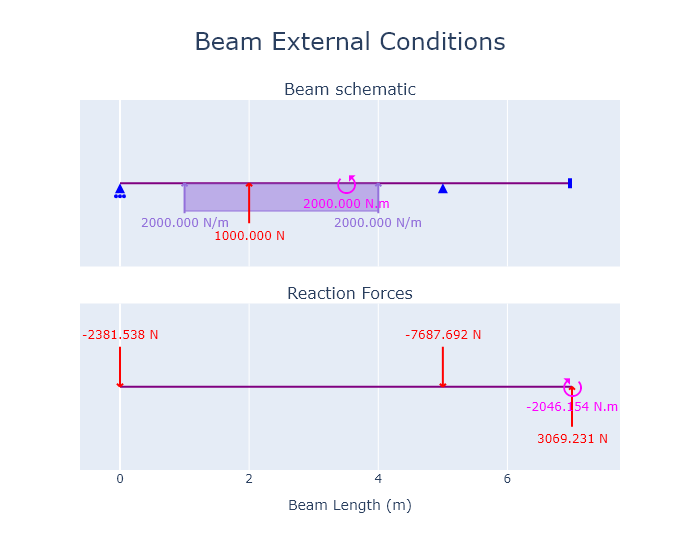
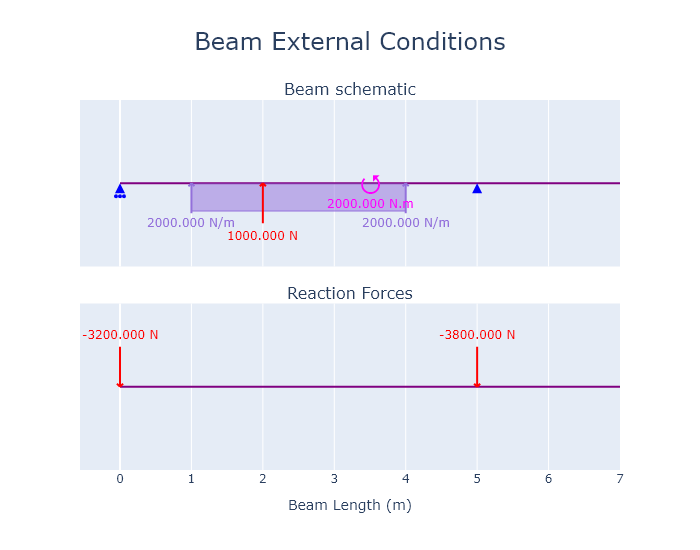
beam calc

diff --git a/tabs/Test1.py b/tabs/Test1.py
@@ -7,10 +7,11 @@ import matplotlib.animation as animation
 
 def app():
 
-    st.title("Linear Activation Function")
+    st.title("Beam Calculator")
+    st.sidebar.header("Beam Calculator")
+    st.markdown("---")
 
-
-    selected = option_menu(None, ["Description", "Explanation", "Implementation", 'Visualization','Inference'], 
+    selected = option_menu(None, ["Theory", "Implementation", 'Result','Inference'], 
     default_index=0, orientation="horizontal",styles={
         "container": {"padding": "0!important", "background-color": "#252A33"},
         "icon": {"color": "orange", "font-size": "20px"}, 
@@ -19,22 +20,12 @@ def app():
     })
     selected
       
-    if selected == "Description":
-        st.markdown('''<p style="font-size:20px; text-align:justify">The linear activation function, also known as the identity function, is one of the simplest activation functions used in neural networks. It's a straightforward mathematical function that performs a linear transformation on its input. The primary purpose of the linear activation function is to pass the input as it is, without introducing any non-linearity. It is typically used in certain regression problems or as a part of more complex neural network architectures. The linear activation function is rarely used in hidden layers of neural networks because it doesn't introduce non-linearity, and neural networks with only linear activations are equivalent to linear regression models. However, it can be useful in the output layer of regression models or for certain special cases where a linear transformation is explicitly required. In most practical applications, non-linear activation functions like ReLU (Rectified Linear Unit), sigmoid, or hyperbolic tangent (tanh) are preferred in the hidden layers of neural networks because they enable the network to learn complex, non-linear patterns in the data. The linear activation function is rarely used in hidden layers of neural networks because it doesn't introduce non-linearity, and neural networks with only linear activations are equivalent to linear regression models. However, it can be useful in the output layer of regression models or for certain special cases where a linear transformation is explicitly required. In most practical applications, non-linear activation functions like ReLU (Rectified Linear Unit), sigmoid, or hyperbolic tangent (tanh) are preferred in the hidden layers of neural networks because they enable the network to learn complex, non-linear patterns in the data.</p>''', unsafe_allow_html=True)
+    if selected == "Theory":
+        st.markdown('''<p style="font-size:20px; text-align:justify">A brief overview of the engineering theory and conventions used in this program are illustrated below. 
+                    Theory is adapted from the Hibbeler textbook. A more rigorous overview of the basic theory behind statically determinate structures is presented in the 
+                    beambending package.</p>''', unsafe_allow_html=True)
+        st.link_button('Click here to view full theory!','https://indeterminatebeam.readthedocs.io/en/main/theory.html')
         
-    if selected=="Explanation":
-        st.write("The formula for this function is:")
-        st.latex(r'''\ f(x)  =  x''')
-        st.write("Here, x is the input to the function, and f(x) is the output. As you can see, f(x) equals x for all values of x. This means that the output is directly proportional to the input, with no change in the shape or characteristics of the data. Mathematically, this means that the weights and biases associated with the layer will simply scale and shift the input data without introducing any non-linearity. Therefore, the output of a layer with linear activation can be expressed as:")
-        st.latex(r'''\ Output=W⋅Input+b''')
-        st.markdown('Where:<br> $Output$ is the output of the layer.<br> $W$ represents the weight matrix.<br>$Input$ is the input data to the layer.<br>$b$ is the bias vector. <br><br>',unsafe_allow_html=True)
-
-        #st.markdown('''<iframe
-        #src="https://30days.streamlit.app/?embed=true"
-        #height="450"
-        #style="width:100%;border:none;"
-        #></iframe>''',unsafe_allow_html=True)
-
     if selected == "Implementation":
         st.subheader("Pseudocode")
         st.code('''
@@ -49,47 +40,8 @@ def app():
                 print(output)
 
                 ''')
-        st.subheader("Example of Implementation")
-        st.code('''
-            import tensorflow as tf
-            from tensorflow import keras
-            import numpy as np
-
-            # Generate some sample data
-            np.random.seed(0)
-            X = np.random.rand(100, 1)
-            y = 2 * X + 1 + 0.1 * np.random.randn(100, 1)
-
-            # Define a simple neural network model with a single dense layer using a linear activation function
-            model = keras.Sequential([
-                keras.layers.Dense(units=1, activation='linear', input_shape=(1,))
-            ])
-
-            # Compile the model
-            model.compile(optimizer='sgd', loss='mean_squared_error')
-
-            # Train the model
-            model.fit(X, y, epochs=100, verbose=1)
-
-            # Make predictions
-            predictions = model.predict(X)
-
-            # Print the trained weights and bias
-            weights, bias = model.layers[0].get_weights()
-            print("Trained Weight:", weights)
-            print("Trained Bias:", bias)
-            ''')
-        st.subheader('Conclusion')
-        st.markdown('''<p style="font-size:17px;text-align:justify;">Import the necessary libraries, including TensorFlow and NumPy.
-            Generate some sample data (X and y) for a simple linear regression problem.
-            Define a neural network model with a single dense (fully connected) layer. We specify the activation function as 'linear' when defining the layer, which means it will use the linear activation function.
-            Compile the model with stochastic gradient descent ('sgd') as the optimizer and mean squared error ('mean_squared_error') as the loss function, which is commonly used for regression problems.
-            Train the model on the sample data for 100 epochs.
-            After training, we print the trained weights and bias of the layer, which should approximate the values of 2 and 1 (from the data generation process).
-            This example demonstrates how to create a simple neural network with a linear activation function for a regression problem using TensorFlow in Python.</p>''',unsafe_allow_html=True)
         
-
-    if selected == "Visualization":
+    if selected == "Result":
         # Define the linear activation function
         def linear_activation(x, a, b):
             return a * x + b

diff --git a/beam.py b/beam.py
@@ -1,0 +1,72 @@
+from indeterminatebeam import *
+import os
+from pathlib import Path
+import kaleido
+
+def create_beam(l, E = 200 * 10**9, I = 9.05 * 10**-6, A = 0.23):
+    # E is "Young's Modulus" and default = 200 * 10**9
+    # A is "Second Moment of Area" and default = 9.05 * 10**-6
+    # I is "Cross-Sectional Area" and default = 0.23
+    
+    beam = Beam(l, E, I, A)
+    
+    return beam
+
+def add_sp(x, type):
+    #Pin = (1,1,0)
+    #Roller = (0,1,0)
+    #Fixed = (1,1,1)
+    
+    if type == "pin":
+        return beam.add_supports(Support(x, (1,1,0)))
+    if type == "roller":
+        return beam.add_supports(Support(x, (0,1,0)))
+    if type == "fixed":
+        return beam.add_supports(Support(x, (1,1,1)))
+    
+def add_load(x1, magnitude, type, x2 = None):
+    
+    if type == "pload":
+        return beam.add_loads(PointLoadV(magnitude, x1))
+    if type == "dlv":
+        return beam.add_loads(DistributedLoadV(magnitude, (x1, x2)))
+    if type == "ptorque":
+        return beam.add_loads(PointTorque(magnitude, x1))
+    
+def plot_diagram(x=0):
+    beam.analyse()
+    
+    if x == 0:
+        #PLot beam schematic
+        fig_beam = beam.plot_beam_diagram()
+        fig_beam.write_image("./images/fig_beam.png",format='png',engine='kaleido')
+    else:
+        #PLot beam schematic
+        fig_reac = beam.plot_reaction_force()
+        fig_reac.write_image("./images/fig_reac.png",format='png',engine='kaleido')
+
+        #PLot normal force
+        fig_normal = beam.plot_normal_force()
+        fig_normal.write_image("./images/fig_normal.png",format='png',engine='kaleido')
+
+        #PLot shear force
+        fig_shear = beam.plot_shear_force()
+        fig_shear.write_image("./images/fig_shear.png",format='png',engine='kaleido')
+
+        #PLot bending moment
+        fig_moment = beam.plot_bending_moment()
+        fig_moment.write_image("./images/fig_moment.png",format='png',engine='kaleido')
+
+        #Plot deflection
+        fig_deflection = beam.plot_deflection()
+        fig_deflection.write_image("./images/fig_deflection.png",format='png',engine='kaleido')
+
+beam = create_beam(10)
+add_sp(0, "fixed")
+add_sp(10, "pin")
+add_sp(5, "roller")
+add_load(2, -10, "pload")
+add_load(7, -15, "dlv", 10)
+add_load(5, 20, "ptorque")
+
+plot_diagram(1)

diff --git a/test/testbeam.py b/test/testbeam.py
@@ -13,7 +13,7 @@ beam_2 = Beam(9, E=2000, I=10**6, A=3000)
 #========== End step 1 
 
 #========== Step 2: Define supports 
-
+   
 # Defines a pin support at location x = 5 m  
 a = Support(5, (1,1,0))      
 # Defines a roller support at location x = 0 m
@@ -21,7 +21,8 @@ b = Support(0, (0,1,0))
 # Defines a fixed support at location x = 7 m
 c = Support(7, (1,1,1))      
 # Assign the support objects to a beam object created earlier
-beam.add_supports(a,b,c)    
+beam.add_supports(Support(5, (1,1,0)))
+beam.add_supports(Support(0, (0,1,0)))
 
 #========== End step 2 
 
@@ -42,10 +43,20 @@ beam.add_loads(load_1,load_2,load_3)
 
 beam.analyse()  
 
-#PLot internal force diagram
-fig = beam.plot_beam_diagram()
+#PLot beam schematic
+fig_beam = beam.plot_beam_diagram()
+
+#PLot beam schematic
+fig_reac = beam.plot_reaction_force()
+
 #PLot normal force
-fig = beam.plot_normal_force()
+fig_normal = beam.plot_normal_force()
+
+#PLot shear force
+fig_shear = beam.plot_shear_force()
+
+#PLot bending moment
+fig_moment = beam.plot_bending_moment()
 
 #Show the input and free body diagram
 fig_1 = beam.plot_beam_external()
@@ -56,8 +67,6 @@ fig_2 = beam.plot_beam_internal()
 #Save result as png file
 fig_1.write_image("./images/fig1.png",format='png',engine='kaleido')
 fig_2.write_image("./images/fig2.png",format='png',engine='kaleido')
-
-# fig_2.write_image("./example_internal.png")
 
 #========== End step 4 
 
